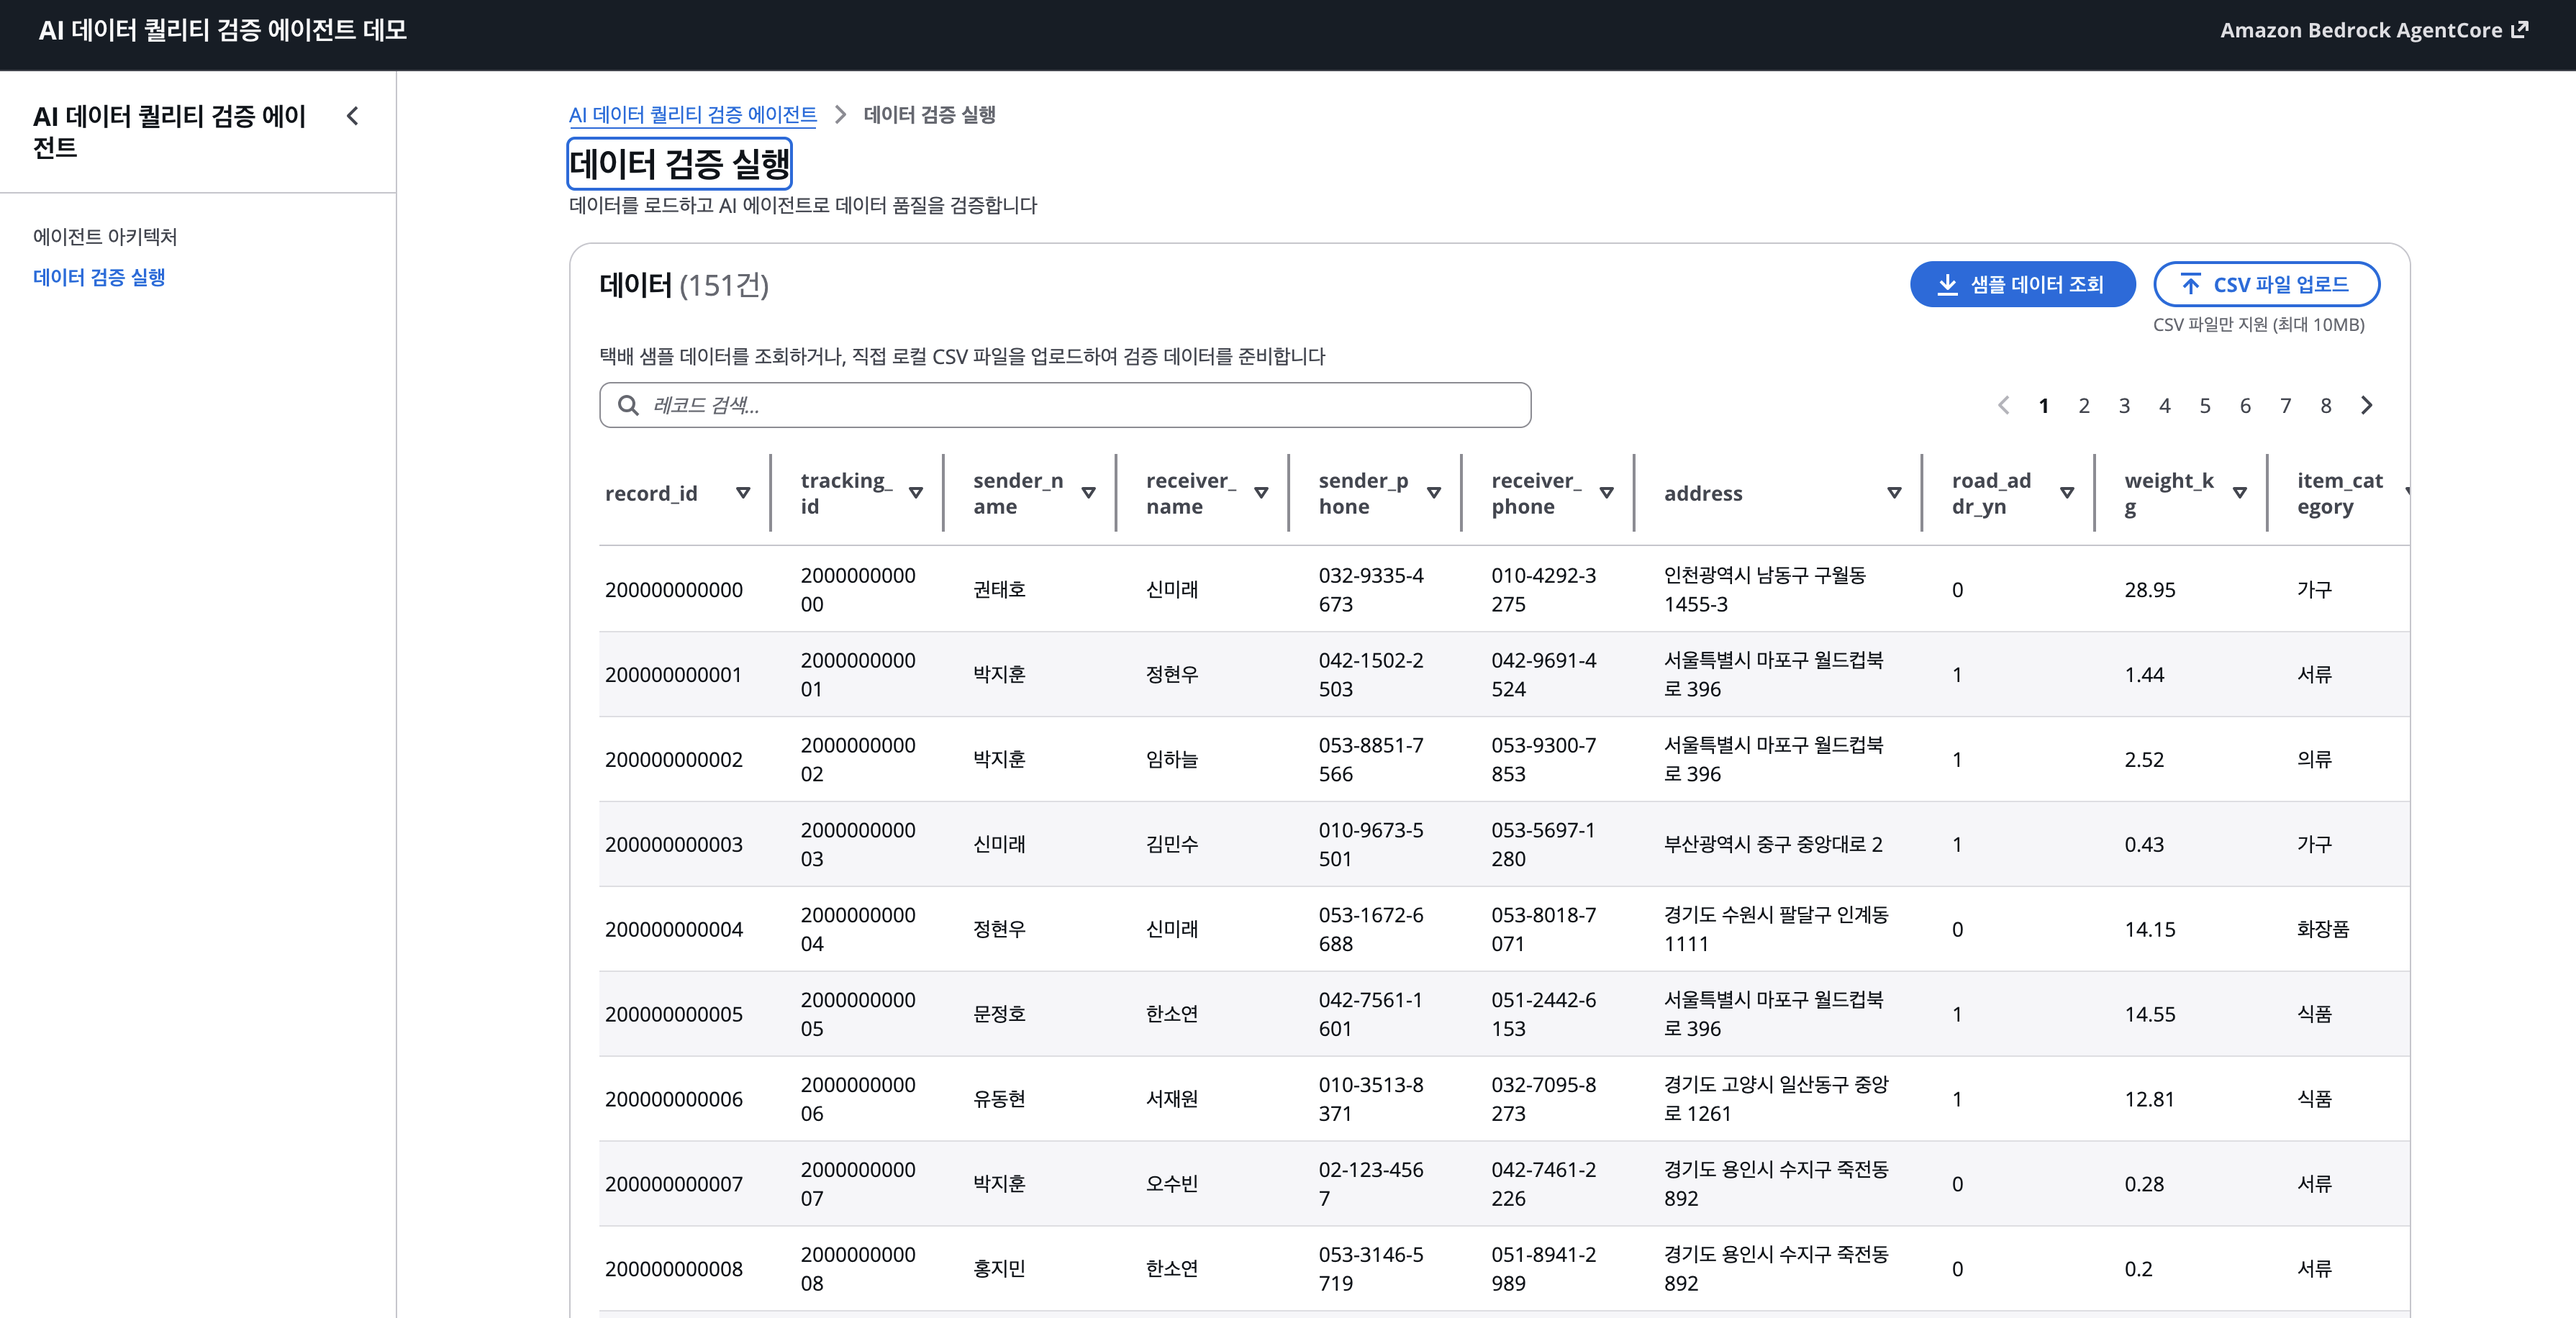
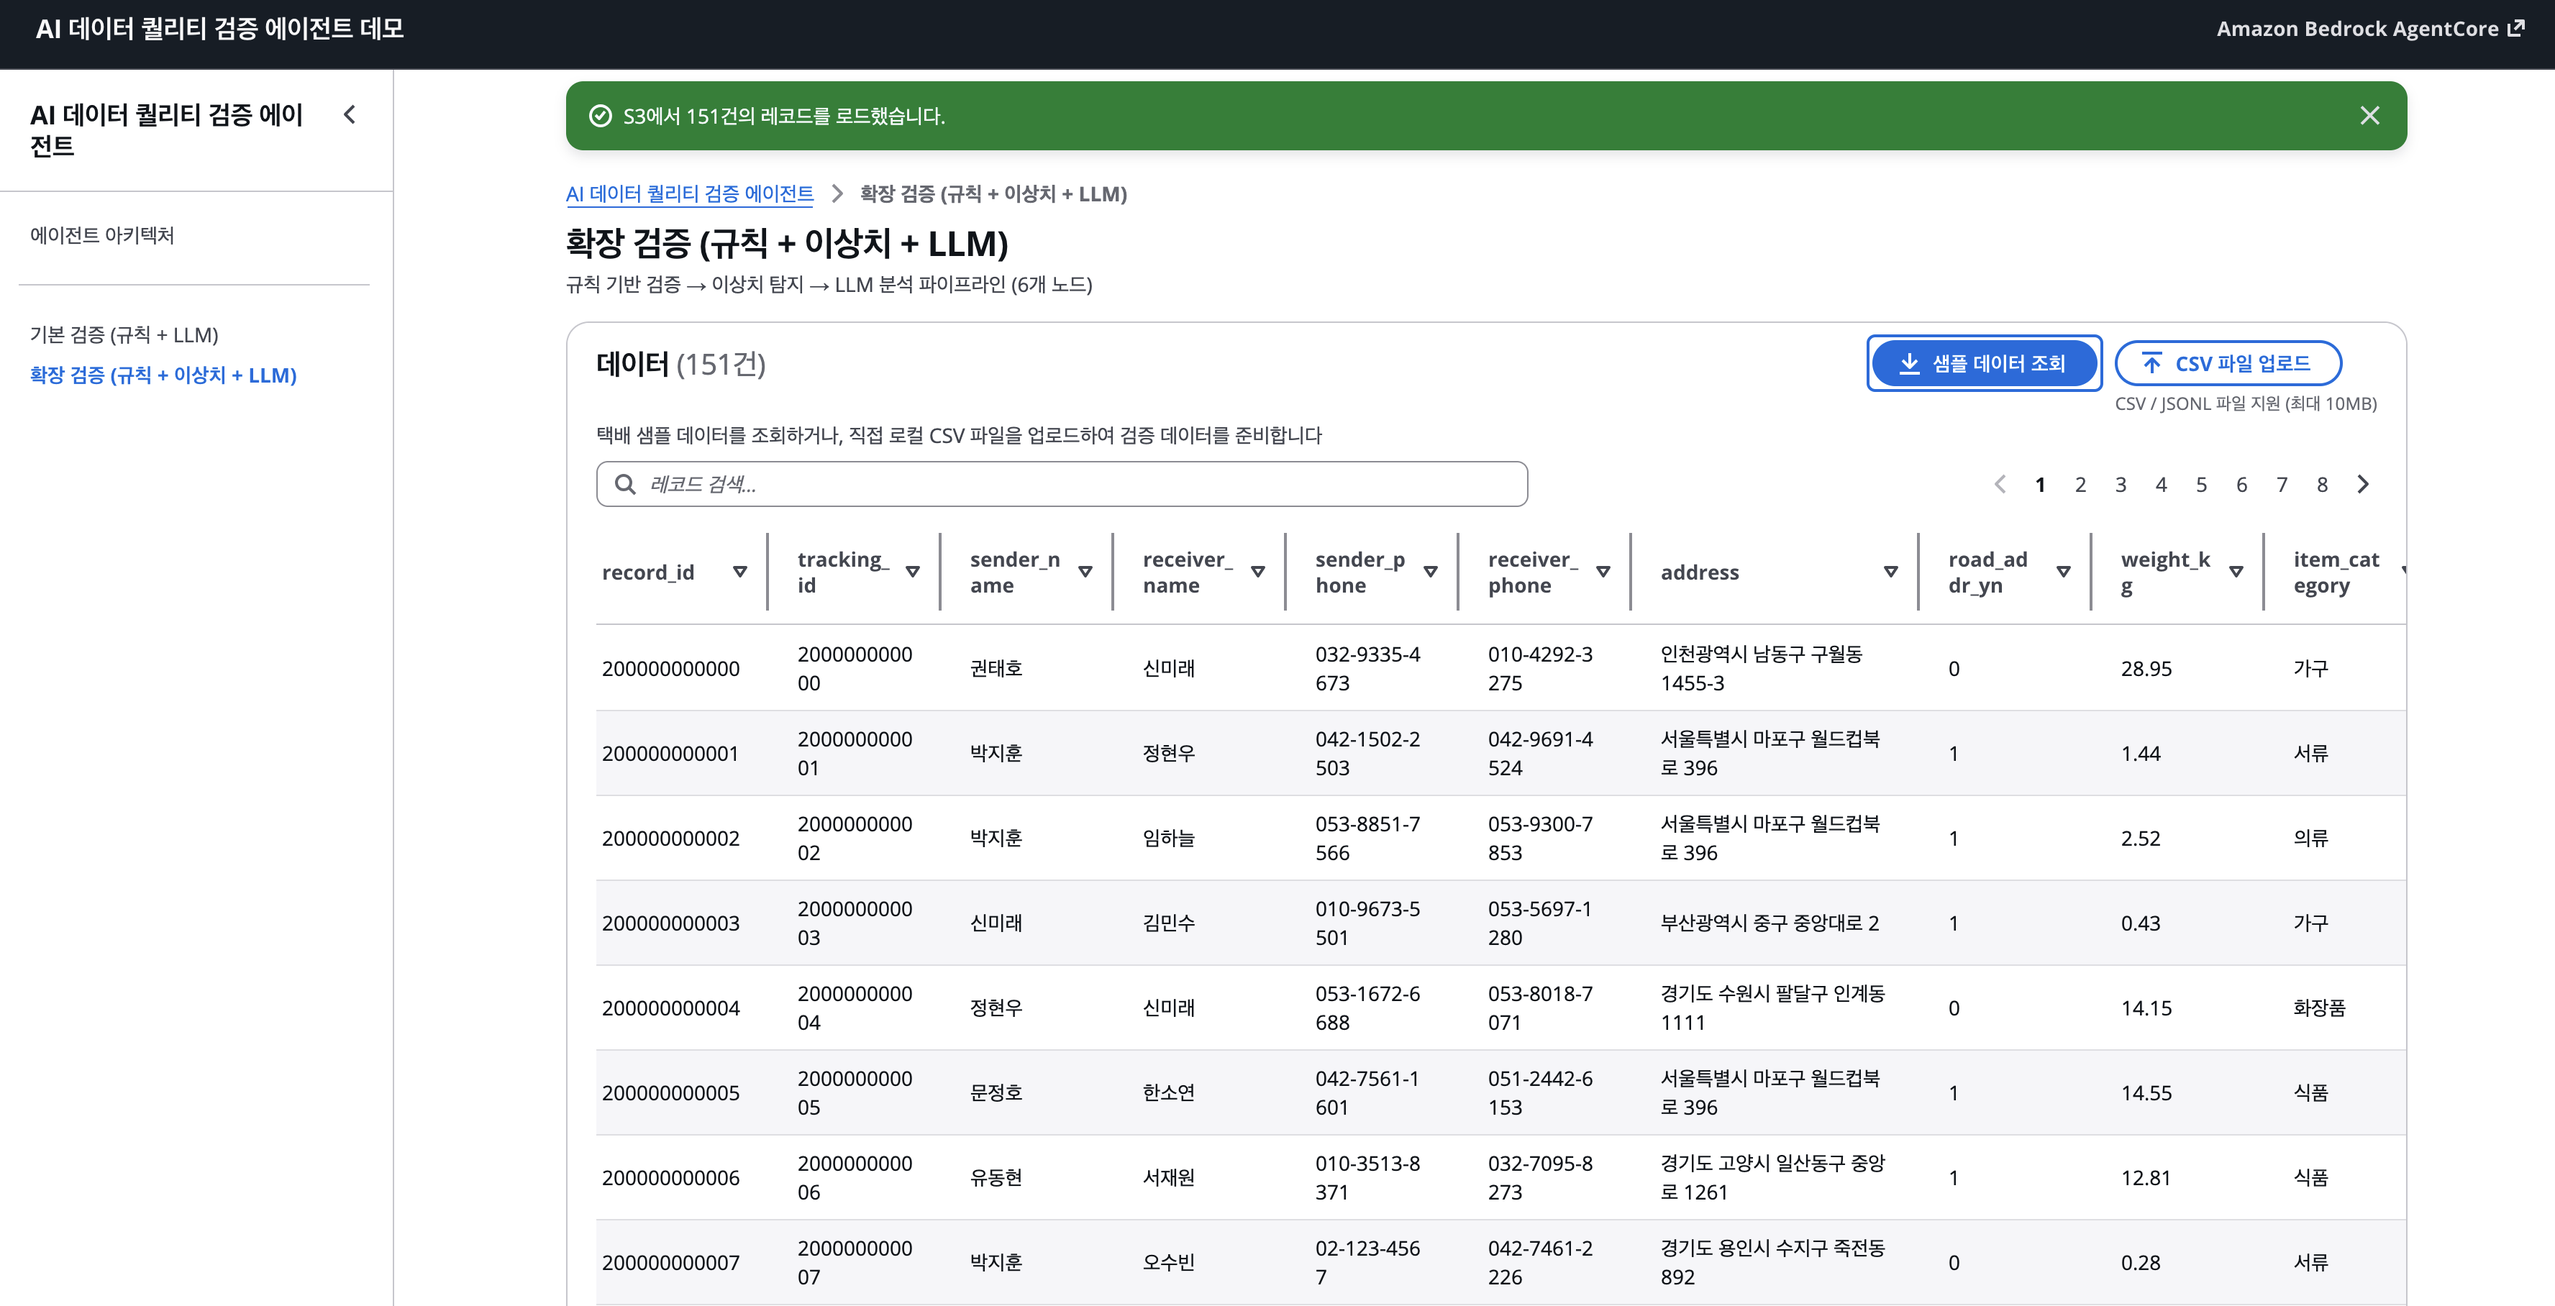
Update README screenshots with latest UI captures
- sample_data.png: v2 pipeline with anomaly detection method selection
- result_summary.png: pipeline flow metrics, health score, token usage
- result_details.png: 3-state status, sortable columns, correction suggestions
- auto_rules.png: LLM-generated dynamic rules (AUTO-001 ~ AUTO-014)

diff --git a/README.md b/README.md
@@ -40,17 +40,21 @@ Coordinator → Rule Validator → Anomaly Detector → LLM Analyzer → Report 
 
 ## Screenshots
 
-### Data Validation — Sample Data Table
+### Sample Data Table
 ![Sample Data](img/sample_data.png)
-Load sample delivery data from S3 or upload your own CSV file to prepare data for validation.
+Load sample delivery data from S3 or upload your own CSV file. Supports the extended pipeline (v2) with anomaly detection method selection (Z-Score, IQR, Isolation Forest, conditional, correlation, rare combination).
 
-### Validation Results — Summary & Dynamic Rules
-![Validation Results Summary](img/result_1.png)
-Health score, pipeline flow metrics, false positive removal with Popover explanations, and auto-generated dynamic rules.
+### Validation Results — Summary
+![Validation Results Summary](img/result_summary.png)
+Health score (81%), pipeline flow metrics (규칙 기반 의심 → 이상치 탐지 추가 → LLM 분석 대상 → 오탐 제거 → LLM 오류 판정), false positive rate, and LLM token usage with cost estimate.
 
-### Validation Results — Pipeline Stages & Per-Record Details
-![Validation Results Detail](img/result_2.png)
-Stage-by-stage execution timeline, 3-state status (오류 확정 / 정상 판정 / 미판정), sortable columns, and correction suggestions.
+### Validation Results — Per-Record Details
+![Validation Results Detail](img/result_details.png)
+Per-record 3-state status (오류 확정 / 정상 판정 / 미판정), all columns sortable, violation details with rule IDs, LLM confidence levels, and correction suggestions.
+
+### Dynamic Rules (Auto-generated)
+![Dynamic Rules](img/auto_rules.png)
+LLM-generated validation rules (AUTO-001 ~ AUTO-014) based on data profiling. Rules cover allowed value checks, format validation, cross-column consistency, and temporal constraints.
 
 ## Quick Start
 
